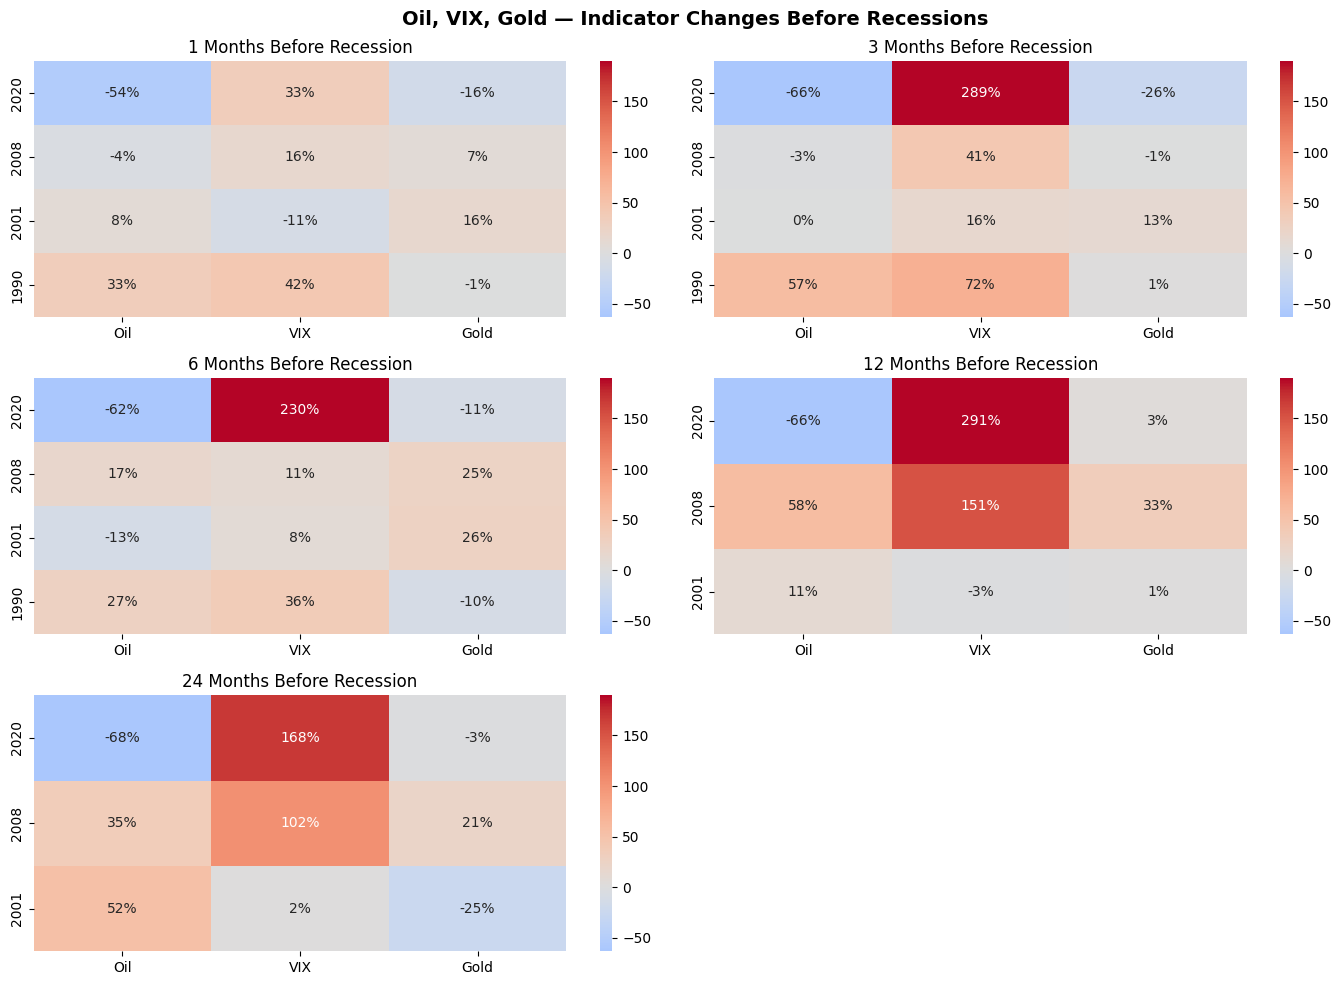
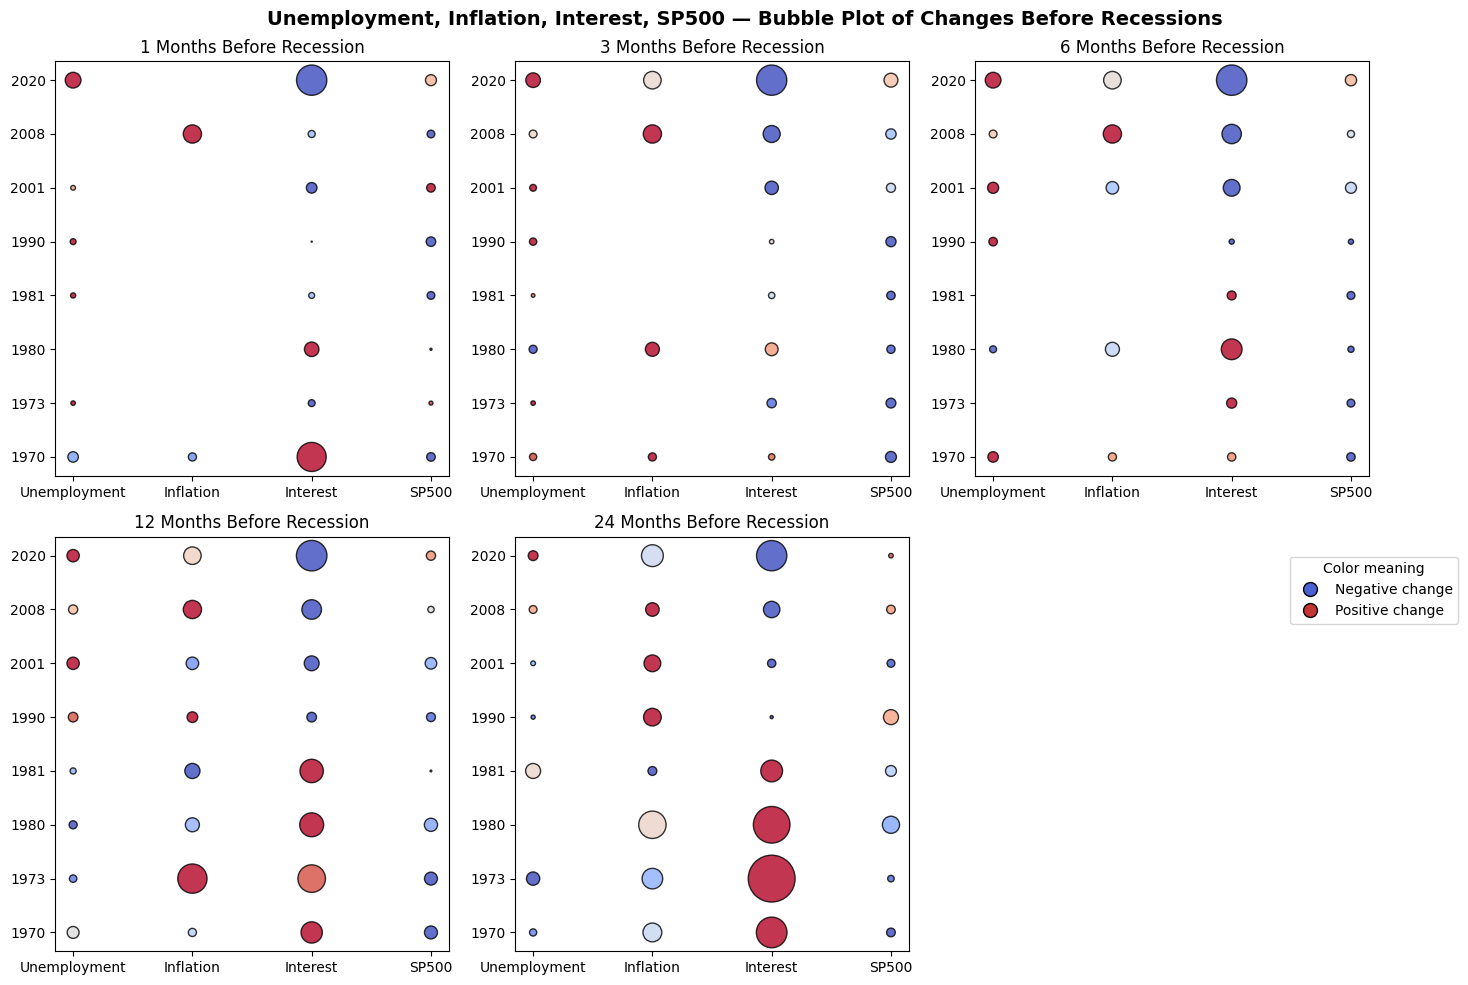
eda edit

diff --git a/public/images/EDA/economic_chart_1968.html b/public/images/EDA/economic_chart_1968.html
@@ -2,6 +2,6 @@
 <head><meta charset="utf-8" /></head>
 <body>
     <div>                        <script type="text/javascript">window.PlotlyConfig = {MathJaxConfig: 'local'};</script>
-        <script charset="utf-8" src="https://cdn.plot.ly/plotly-2.35.2.min.js"></script>                <div id="a3943499-c679-4418-96e1-02f1635c8d95" class="plotly-graph-div" style="height:100%; width:100%;"></div>            <script type="text/javascript">                                    window.PLOTLYENV=window.PLOTLYENV || {};                                    if (document.getElementById("a3943499-c679-4418-96e1-02f1635c8d95")) {                    Plotly.newPlot(                        "a3943499-c679-4418-96e1-02f1635c8d95",                        [{"hovertemplate":"\u003cb\u003eUnemployment\u003c\u002fb\u003e\u003cbr\u003eMonth: %{x}\u003cbr\u003eZ-score: %{y:.2f}\u003cextra\u003e\u003c\u002fextra\u003e","line":{"color":"blue"},"mode":"lines","name":"Unemployment","x":[-24,-23,-22,-21,-20,-19,-18,-17,-16,-15,-14,-13,-12,-11,-10,-9,-8,-7,-6,-5,-4,-3,-2,-1,0],"y":[-0.5486365855965694,-0.5773337776928263,-0.6132052678131475,-0.6275538638612761,-0.6634253539815974,-0.5988566717650191,-0.6419024599094046,-0.6634253539815975,-0.649076757933469,-0.6060309697890833,-0.5558108836206337,-0.6060309697890833,-0.6203795658372119,-0.6562510559575332,-0.6634253539815974,-0.6705996520056616,-0.6705996520056616,-0.6562510559575331,-0.6490767579334689,-0.6705996520056616,-0.6419024599094045,-0.6060309697890832,-0.6419024599094046,-0.5845080757168907,-0.44819641325966947],"type":"scatter"},{"hovertemplate":"\u003cb\u003eInflation\u003c\u002fb\u003e\u003cbr\u003eMonth: %{x}\u003cbr\u003eZ-score: %{y:.2f}\u003cextra\u003e\u003c\u002fextra\u003e","line":{"color":"red"},"mode":"lines","name":"Inflation","x":[-24,-23,-22,-21,-20,-19,-18,-17,-16,-15,-14,-13,-12,-11,-10,-9,-8,-7,-6,-5,-4,-3,-2,-1,0],"y":[0.307393972904044,0.26174304678252946,0.26174304678252946,0.26174304678252946,0.26174304678252946,0.3979142010258987,0.3979142010258987,0.3979142010258987,0.3979142010258987,0.45109578710962184,0.42289642668682703,0.5849918085415744,0.6215540484095738,0.7515289999927037,0.7515289999927037,0.7515289999927037,0.7515289999927037,0.6332721584334988,0.6332721584334988,0.6332721584334988,0.6332721584334988,0.608637550292634,0.5827530845351392,0.6854064650509935,0.7463479858354487],"type":"scatter"},{"hovertemplate":"\u003cb\u003eInterest\u003c\u002fb\u003e\u003cbr\u003eMonth: %{x}\u003cbr\u003eZ-score: %{y:.2f}\u003cextra\u003e\u003c\u002fextra\u003e","line":{"color":"green"},"mode":"lines","name":"Interest","x":[-24,-23,-22,-21,-20,-19,-18,-17,-16,-15,-14,-13,-12,-11,-10,-9,-8,-7,-6,-5,-4,-3,-2,-1,0],"y":[0.1380440256539824,0.17521722284082608,0.31297671829795326,0.3504622952930899,0.4382410214233682,0.39044691075456894,0.5341416225692592,0.6612802045444311,0.47510183880191925,0.4741646993770407,0.4557342906877652,0.36264510781650927,0.4635437858950855,0.6225451083161232,0.6447240747049122,0.8252796038981537,0.9711609743708938,0.7881064067113099,0.8043501567425358,0.889005084789886,1.0145817677235938,0.9589781618474744,1.0205169840811572,0.7315656614103122,0.8633899405098759],"type":"scatter"},{"hovertemplate":"\u003cb\u003eSP500\u003c\u002fb\u003e\u003cbr\u003eMonth: %{x}\u003cbr\u003eZ-score: %{y:.2f}\u003cextra\u003e\u003c\u002fextra\u003e","line":{"color":"orange"},"mode":"lines","name":"SP500","x":[-24,-23,-22,-21,-20,-19,-18,-17,-16,-15,-14,-13,-12,-11,-10,-9,-8,-7,-6,-5,-4,-3,-2,-1,0],"y":[-0.2582498625403811,-0.2598241218967698,-0.24268662181789447,-0.24355833132020083,-0.23741034583657109,-0.2282763283543105,-0.21837028590928984,-0.23562993590146936,-0.21569799379722654,-0.2457757415011604,-0.22339331780199456,-0.19312398183449092,-0.19013682485747857,-0.1848291802730332,-0.2020070231366786,-0.17450410047784637,-0.15484891074906926,-0.17723131478675885,-0.17739264745773298,-0.17901620668360382,-0.16385407802885094,-0.1413450540839689,-0.16440759047340342,-0.20628048774675992,-0.25311365320632656],"type":"scatter"}],                        {"template":{"data":{"barpolar":[{"marker":{"line":{"color":"white","width":0.5},"pattern":{"fillmode":"overlay","size":10,"solidity":0.2}},"type":"barpolar"}],"bar":[{"error_x":{"color":"#2a3f5f"},"error_y":{"color":"#2a3f5f"},"marker":{"line":{"color":"white","width":0.5},"pattern":{"fillmode":"overlay","size":10,"solidity":0.2}},"type":"bar"}],"carpet":[{"aaxis":{"endlinecolor":"#2a3f5f","gridcolor":"#C8D4E3","linecolor":"#C8D4E3","minorgridcolor":"#C8D4E3","startlinecolor":"#2a3f5f"},"baxis":{"endlinecolor":"#2a3f5f","gridcolor":"#C8D4E3","linecolor":"#C8D4E3","minorgridcolor":"#C8D4E3","startlinecolor":"#2a3f5f"},"type":"carpet"}],"choropleth":[{"colorbar":{"outlinewidth":0,"ticks":""},"type":"choropleth"}],"contourcarpet":[{"colorbar":{"outlinewidth":0,"ticks":""},"type":"contourcarpet"}],"contour":[{"colorbar":{"outlinewidth":0,"ticks":""},"colorscale":[[0.0,"#0d0887"],[0.1111111111111111,"#46039f"],[0.2222222222222222,"#7201a8"],[0.3333333333333333,"#9c179e"],[0.4444444444444444,"#bd3786"],[0.5555555555555556,"#d8576b"],[0.6666666666666666,"#ed7953"],[0.7777777777777778,"#fb9f3a"],[0.8888888888888888,"#fdca26"],[1.0,"#f0f921"]],"type":"contour"}],"heatmapgl":[{"colorbar":{"outlinewidth":0,"ticks":""},"colorscale":[[0.0,"#0d0887"],[0.1111111111111111,"#46039f"],[0.2222222222222222,"#7201a8"],[0.3333333333333333,"#9c179e"],[0.4444444444444444,"#bd3786"],[0.5555555555555556,"#d8576b"],[0.6666666666666666,"#ed7953"],[0.7777777777777778,"#fb9f3a"],[0.8888888888888888,"#fdca26"],[1.0,"#f0f921"]],"type":"heatmapgl"}],"heatmap":[{"colorbar":{"outlinewidth":0,"ticks":""},"colorscale":[[0.0,"#0d0887"],[0.1111111111111111,"#46039f"],[0.2222222222222222,"#7201a8"],[0.3333333333333333,"#9c179e"],[0.4444444444444444,"#bd3786"],[0.5555555555555556,"#d8576b"],[0.6666666666666666,"#ed7953"],[0.7777777777777778,"#fb9f3a"],[0.8888888888888888,"#fdca26"],[1.0,"#f0f921"]],"type":"heatmap"}],"histogram2dcontour":[{"colorbar":{"outlinewidth":0,"ticks":""},"colorscale":[[0.0,"#0d0887"],[0.1111111111111111,"#46039f"],[0.2222222222222222,"#7201a8"],[0.3333333333333333,"#9c179e"],[0.4444444444444444,"#bd3786"],[0.5555555555555556,"#d8576b"],[0.6666666666666666,"#ed7953"],[0.7777777777777778,"#fb9f3a"],[0.8888888888888888,"#fdca26"],[1.0,"#f0f921"]],"type":"histogram2dcontour"}],"histogram2d":[{"colorbar":{"outlinewidth":0,"ticks":""},"colorscale":[[0.0,"#0d0887"],[0.1111111111111111,"#46039f"],[0.2222222222222222,"#7201a8"],[0.3333333333333333,"#9c179e"],[0.4444444444444444,"#bd3786"],[0.5555555555555556,"#d8576b"],[0.6666666666666666,"#ed7953"],[0.7777777777777778,"#fb9f3a"],[0.8888888888888888,"#fdca26"],[1.0,"#f0f921"]],"type":"histogram2d"}],"histogram":[{"marker":{"pattern":{"fillmode":"overlay","size":10,"solidity":0.2}},"type":"histogram"}],"mesh3d":[{"colorbar":{"outlinewidth":0,"ticks":""},"type":"mesh3d"}],"parcoords":[{"line":{"colorbar":{"outlinewidth":0,"ticks":""}},"type":"parcoords"}],"pie":[{"automargin":true,"type":"pie"}],"scatter3d":[{"line":{"colorbar":{"outlinewidth":0,"ticks":""}},"marker":{"colorbar":{"outlinewidth":0,"ticks":""}},"type":"scatter3d"}],"scattercarpet":[{"marker":{"colorbar":{"outlinewidth":0,"ticks":""}},"type":"scattercarpet"}],"scattergeo":[{"marker":{"colorbar":{"outlinewidth":0,"ticks":""}},"type":"scattergeo"}],"scattergl":[{"marker":{"colorbar":{"outlinewidth":0,"ticks":""}},"type":"scattergl"}],"scattermapbox":[{"marker":{"colorbar":{"outlinewidth":0,"ticks":""}},"type":"scattermapbox"}],"scatterpolargl":[{"marker":{"colorbar":{"outlinewidth":0,"ticks":""}},"type":"scatterpolargl"}],"scatterpolar":[{"marker":{"colorbar":{"outlinewidth":0,"ticks":""}},"type":"scatterpolar"}],"scatter":[{"fillpattern":{"fillmode":"overlay","size":10,"solidity":0.2},"type":"scatter"}],"scatterternary":[{"marker":{"colorbar":{"outlinewidth":0,"ticks":""}},"type":"scatterternary"}],"surface":[{"colorbar":{"outlinewidth":0,"ticks":""},"colorscale":[[0.0,"#0d0887"],[0.1111111111111111,"#46039f"],[0.2222222222222222,"#7201a8"],[0.3333333333333333,"#9c179e"],[0.4444444444444444,"#bd3786"],[0.5555555555555556,"#d8576b"],[0.6666666666666666,"#ed7953"],[0.7777777777777778,"#fb9f3a"],[0.8888888888888888,"#fdca26"],[1.0,"#f0f921"]],"type":"surface"}],"table":[{"cells":{"fill":{"color":"#EBF0F8"},"line":{"color":"white"}},"header":{"fill":{"color":"#C8D4E3"},"line":{"color":"white"}},"type":"table"}]},"layout":{"annotationdefaults":{"arrowcolor":"#2a3f5f","arrowhead":0,"arrowwidth":1},"autotypenumbers":"strict","coloraxis":{"colorbar":{"outlinewidth":0,"ticks":""}},"colorscale":{"diverging":[[0,"#8e0152"],[0.1,"#c51b7d"],[0.2,"#de77ae"],[0.3,"#f1b6da"],[0.4,"#fde0ef"],[0.5,"#f7f7f7"],[0.6,"#e6f5d0"],[0.7,"#b8e186"],[0.8,"#7fbc41"],[0.9,"#4d9221"],[1,"#276419"]],"sequential":[[0.0,"#0d0887"],[0.1111111111111111,"#46039f"],[0.2222222222222222,"#7201a8"],[0.3333333333333333,"#9c179e"],[0.4444444444444444,"#bd3786"],[0.5555555555555556,"#d8576b"],[0.6666666666666666,"#ed7953"],[0.7777777777777778,"#fb9f3a"],[0.8888888888888888,"#fdca26"],[1.0,"#f0f921"]],"sequentialminus":[[0.0,"#0d0887"],[0.1111111111111111,"#46039f"],[0.2222222222222222,"#7201a8"],[0.3333333333333333,"#9c179e"],[0.4444444444444444,"#bd3786"],[0.5555555555555556,"#d8576b"],[0.6666666666666666,"#ed7953"],[0.7777777777777778,"#fb9f3a"],[0.8888888888888888,"#fdca26"],[1.0,"#f0f921"]]},"colorway":["#636efa","#EF553B","#00cc96","#ab63fa","#FFA15A","#19d3f3","#FF6692","#B6E880","#FF97FF","#FECB52"],"font":{"color":"#2a3f5f"},"geo":{"bgcolor":"white","lakecolor":"white","landcolor":"white","showlakes":true,"showland":true,"subunitcolor":"#C8D4E3"},"hoverlabel":{"align":"left"},"hovermode":"closest","mapbox":{"style":"light"},"paper_bgcolor":"white","plot_bgcolor":"white","polar":{"angularaxis":{"gridcolor":"#EBF0F8","linecolor":"#EBF0F8","ticks":""},"bgcolor":"white","radialaxis":{"gridcolor":"#EBF0F8","linecolor":"#EBF0F8","ticks":""}},"scene":{"xaxis":{"backgroundcolor":"white","gridcolor":"#DFE8F3","gridwidth":2,"linecolor":"#EBF0F8","showbackground":true,"ticks":"","zerolinecolor":"#EBF0F8"},"yaxis":{"backgroundcolor":"white","gridcolor":"#DFE8F3","gridwidth":2,"linecolor":"#EBF0F8","showbackground":true,"ticks":"","zerolinecolor":"#EBF0F8"},"zaxis":{"backgroundcolor":"white","gridcolor":"#DFE8F3","gridwidth":2,"linecolor":"#EBF0F8","showbackground":true,"ticks":"","zerolinecolor":"#EBF0F8"}},"shapedefaults":{"line":{"color":"#2a3f5f"}},"ternary":{"aaxis":{"gridcolor":"#DFE8F3","linecolor":"#A2B1C6","ticks":""},"baxis":{"gridcolor":"#DFE8F3","linecolor":"#A2B1C6","ticks":""},"bgcolor":"white","caxis":{"gridcolor":"#DFE8F3","linecolor":"#A2B1C6","ticks":""}},"title":{"x":0.05},"xaxis":{"automargin":true,"gridcolor":"#EBF0F8","linecolor":"#EBF0F8","ticks":"","title":{"standoff":15},"zerolinecolor":"#EBF0F8","zerolinewidth":2},"yaxis":{"automargin":true,"gridcolor":"#EBF0F8","linecolor":"#EBF0F8","ticks":"","title":{"standoff":15},"zerolinecolor":"#EBF0F8","zerolinewidth":2}}},"shapes":[{"line":{"color":"black","dash":"dash"},"type":"line","x0":0,"x1":0,"xref":"x","y0":0,"y1":1,"yref":"y domain"}],"annotations":[{"showarrow":false,"text":"Recession Start","x":0,"xanchor":"left","xref":"x","y":1,"yanchor":"top","yref":"y domain"}],"title":{"text":"Average Indicator Trajectory Before Recession — Unemployment, Inflation, Interest, SP500 (1968–)"},"xaxis":{"title":{"text":"Months Before Recession"}},"yaxis":{"title":{"text":"Standardized Value (Z-score)"}},"hovermode":"closest","legend":{"title":{"text":"Indicator"}}},                        {"responsive": true}                    )                };                            </script>        </div>
+        <script charset="utf-8" src="https://cdn.plot.ly/plotly-2.35.2.min.js"></script>                <div id="36c79dbf-b446-43fa-ad68-6c90e91bb247" class="plotly-graph-div" style="height:100%; width:100%;"></div>            <script type="text/javascript">                                    window.PLOTLYENV=window.PLOTLYENV || {};                                    if (document.getElementById("36c79dbf-b446-43fa-ad68-6c90e91bb247")) {                    Plotly.newPlot(                        "36c79dbf-b446-43fa-ad68-6c90e91bb247",                        [{"hovertemplate":"\u003cb\u003eUnemployment\u003c\u002fb\u003e\u003cbr\u003eMonth: %{x}\u003cbr\u003eZ-score: %{y:.2f}\u003cextra\u003e\u003c\u002fextra\u003e","line":{"color":"blue"},"mode":"lines","name":"Unemployment","x":[-24,-23,-22,-21,-20,-19,-18,-17,-16,-15,-14,-13,-12,-11,-10,-9,-8,-7,-6,-5,-4,-3,-2,-1,0],"y":[-0.5486365855965694,-0.5773337776928263,-0.6132052678131475,-0.6275538638612761,-0.6634253539815974,-0.5988566717650191,-0.6419024599094046,-0.6634253539815975,-0.649076757933469,-0.6060309697890833,-0.5558108836206337,-0.6060309697890833,-0.6203795658372119,-0.6562510559575332,-0.6634253539815974,-0.6705996520056616,-0.6705996520056616,-0.6562510559575331,-0.6490767579334689,-0.6705996520056616,-0.6419024599094045,-0.6060309697890832,-0.6419024599094046,-0.5845080757168907,-0.44819641325966947],"type":"scatter"},{"hovertemplate":"\u003cb\u003eInflation\u003c\u002fb\u003e\u003cbr\u003eMonth: %{x}\u003cbr\u003eZ-score: %{y:.2f}\u003cextra\u003e\u003c\u002fextra\u003e","line":{"color":"red"},"mode":"lines","name":"Inflation","x":[-24,-23,-22,-21,-20,-19,-18,-17,-16,-15,-14,-13,-12,-11,-10,-9,-8,-7,-6,-5,-4,-3,-2,-1,0],"y":[0.307393972904044,0.26174304678252946,0.26174304678252946,0.26174304678252946,0.26174304678252946,0.3979142010258987,0.3979142010258987,0.3979142010258987,0.3979142010258987,0.45109578710962184,0.42289642668682703,0.5849918085415744,0.6215540484095738,0.7515289999927037,0.7515289999927037,0.7515289999927037,0.7515289999927037,0.6332721584334988,0.6332721584334988,0.6332721584334988,0.6332721584334988,0.608637550292634,0.5827530845351392,0.6854064650509935,0.7463479858354487],"type":"scatter"},{"hovertemplate":"\u003cb\u003eInterest\u003c\u002fb\u003e\u003cbr\u003eMonth: %{x}\u003cbr\u003eZ-score: %{y:.2f}\u003cextra\u003e\u003c\u002fextra\u003e","line":{"color":"green"},"mode":"lines","name":"Interest","x":[-24,-23,-22,-21,-20,-19,-18,-17,-16,-15,-14,-13,-12,-11,-10,-9,-8,-7,-6,-5,-4,-3,-2,-1,0],"y":[0.1380440256539824,0.17521722284082608,0.31297671829795326,0.3504622952930899,0.4382410214233682,0.39044691075456894,0.5341416225692592,0.6612802045444311,0.47510183880191925,0.4741646993770407,0.4557342906877652,0.36264510781650927,0.4635437858950855,0.6225451083161232,0.6447240747049122,0.8252796038981537,0.9711609743708938,0.7881064067113099,0.8043501567425358,0.889005084789886,1.0145817677235938,0.9589781618474744,1.0205169840811572,0.7315656614103122,0.8633899405098759],"type":"scatter"},{"hovertemplate":"\u003cb\u003eSP500\u003c\u002fb\u003e\u003cbr\u003eMonth: %{x}\u003cbr\u003eZ-score: %{y:.2f}\u003cextra\u003e\u003c\u002fextra\u003e","line":{"color":"orange"},"mode":"lines","name":"SP500","x":[-24,-23,-22,-21,-20,-19,-18,-17,-16,-15,-14,-13,-12,-11,-10,-9,-8,-7,-6,-5,-4,-3,-2,-1,0],"y":[-0.2582498625403811,-0.2598241218967698,-0.24268662181789447,-0.24355833132020083,-0.23741034583657109,-0.2282763283543105,-0.21837028590928984,-0.23562993590146936,-0.21569799379722654,-0.2457757415011604,-0.22339331780199456,-0.19312398183449092,-0.19013682485747857,-0.1848291802730332,-0.2020070231366786,-0.17450410047784637,-0.15484891074906926,-0.17723131478675885,-0.17739264745773298,-0.17901620668360382,-0.16385407802885094,-0.1413450540839689,-0.16440759047340342,-0.20628048774675992,-0.25311365320632656],"type":"scatter"}],                        {"template":{"data":{"barpolar":[{"marker":{"line":{"color":"white","width":0.5},"pattern":{"fillmode":"overlay","size":10,"solidity":0.2}},"type":"barpolar"}],"bar":[{"error_x":{"color":"#2a3f5f"},"error_y":{"color":"#2a3f5f"},"marker":{"line":{"color":"white","width":0.5},"pattern":{"fillmode":"overlay","size":10,"solidity":0.2}},"type":"bar"}],"carpet":[{"aaxis":{"endlinecolor":"#2a3f5f","gridcolor":"#C8D4E3","linecolor":"#C8D4E3","minorgridcolor":"#C8D4E3","startlinecolor":"#2a3f5f"},"baxis":{"endlinecolor":"#2a3f5f","gridcolor":"#C8D4E3","linecolor":"#C8D4E3","minorgridcolor":"#C8D4E3","startlinecolor":"#2a3f5f"},"type":"carpet"}],"choropleth":[{"colorbar":{"outlinewidth":0,"ticks":""},"type":"choropleth"}],"contourcarpet":[{"colorbar":{"outlinewidth":0,"ticks":""},"type":"contourcarpet"}],"contour":[{"colorbar":{"outlinewidth":0,"ticks":""},"colorscale":[[0.0,"#0d0887"],[0.1111111111111111,"#46039f"],[0.2222222222222222,"#7201a8"],[0.3333333333333333,"#9c179e"],[0.4444444444444444,"#bd3786"],[0.5555555555555556,"#d8576b"],[0.6666666666666666,"#ed7953"],[0.7777777777777778,"#fb9f3a"],[0.8888888888888888,"#fdca26"],[1.0,"#f0f921"]],"type":"contour"}],"heatmapgl":[{"colorbar":{"outlinewidth":0,"ticks":""},"colorscale":[[0.0,"#0d0887"],[0.1111111111111111,"#46039f"],[0.2222222222222222,"#7201a8"],[0.3333333333333333,"#9c179e"],[0.4444444444444444,"#bd3786"],[0.5555555555555556,"#d8576b"],[0.6666666666666666,"#ed7953"],[0.7777777777777778,"#fb9f3a"],[0.8888888888888888,"#fdca26"],[1.0,"#f0f921"]],"type":"heatmapgl"}],"heatmap":[{"colorbar":{"outlinewidth":0,"ticks":""},"colorscale":[[0.0,"#0d0887"],[0.1111111111111111,"#46039f"],[0.2222222222222222,"#7201a8"],[0.3333333333333333,"#9c179e"],[0.4444444444444444,"#bd3786"],[0.5555555555555556,"#d8576b"],[0.6666666666666666,"#ed7953"],[0.7777777777777778,"#fb9f3a"],[0.8888888888888888,"#fdca26"],[1.0,"#f0f921"]],"type":"heatmap"}],"histogram2dcontour":[{"colorbar":{"outlinewidth":0,"ticks":""},"colorscale":[[0.0,"#0d0887"],[0.1111111111111111,"#46039f"],[0.2222222222222222,"#7201a8"],[0.3333333333333333,"#9c179e"],[0.4444444444444444,"#bd3786"],[0.5555555555555556,"#d8576b"],[0.6666666666666666,"#ed7953"],[0.7777777777777778,"#fb9f3a"],[0.8888888888888888,"#fdca26"],[1.0,"#f0f921"]],"type":"histogram2dcontour"}],"histogram2d":[{"colorbar":{"outlinewidth":0,"ticks":""},"colorscale":[[0.0,"#0d0887"],[0.1111111111111111,"#46039f"],[0.2222222222222222,"#7201a8"],[0.3333333333333333,"#9c179e"],[0.4444444444444444,"#bd3786"],[0.5555555555555556,"#d8576b"],[0.6666666666666666,"#ed7953"],[0.7777777777777778,"#fb9f3a"],[0.8888888888888888,"#fdca26"],[1.0,"#f0f921"]],"type":"histogram2d"}],"histogram":[{"marker":{"pattern":{"fillmode":"overlay","size":10,"solidity":0.2}},"type":"histogram"}],"mesh3d":[{"colorbar":{"outlinewidth":0,"ticks":""},"type":"mesh3d"}],"parcoords":[{"line":{"colorbar":{"outlinewidth":0,"ticks":""}},"type":"parcoords"}],"pie":[{"automargin":true,"type":"pie"}],"scatter3d":[{"line":{"colorbar":{"outlinewidth":0,"ticks":""}},"marker":{"colorbar":{"outlinewidth":0,"ticks":""}},"type":"scatter3d"}],"scattercarpet":[{"marker":{"colorbar":{"outlinewidth":0,"ticks":""}},"type":"scattercarpet"}],"scattergeo":[{"marker":{"colorbar":{"outlinewidth":0,"ticks":""}},"type":"scattergeo"}],"scattergl":[{"marker":{"colorbar":{"outlinewidth":0,"ticks":""}},"type":"scattergl"}],"scattermapbox":[{"marker":{"colorbar":{"outlinewidth":0,"ticks":""}},"type":"scattermapbox"}],"scatterpolargl":[{"marker":{"colorbar":{"outlinewidth":0,"ticks":""}},"type":"scatterpolargl"}],"scatterpolar":[{"marker":{"colorbar":{"outlinewidth":0,"ticks":""}},"type":"scatterpolar"}],"scatter":[{"fillpattern":{"fillmode":"overlay","size":10,"solidity":0.2},"type":"scatter"}],"scatterternary":[{"marker":{"colorbar":{"outlinewidth":0,"ticks":""}},"type":"scatterternary"}],"surface":[{"colorbar":{"outlinewidth":0,"ticks":""},"colorscale":[[0.0,"#0d0887"],[0.1111111111111111,"#46039f"],[0.2222222222222222,"#7201a8"],[0.3333333333333333,"#9c179e"],[0.4444444444444444,"#bd3786"],[0.5555555555555556,"#d8576b"],[0.6666666666666666,"#ed7953"],[0.7777777777777778,"#fb9f3a"],[0.8888888888888888,"#fdca26"],[1.0,"#f0f921"]],"type":"surface"}],"table":[{"cells":{"fill":{"color":"#EBF0F8"},"line":{"color":"white"}},"header":{"fill":{"color":"#C8D4E3"},"line":{"color":"white"}},"type":"table"}]},"layout":{"annotationdefaults":{"arrowcolor":"#2a3f5f","arrowhead":0,"arrowwidth":1},"autotypenumbers":"strict","coloraxis":{"colorbar":{"outlinewidth":0,"ticks":""}},"colorscale":{"diverging":[[0,"#8e0152"],[0.1,"#c51b7d"],[0.2,"#de77ae"],[0.3,"#f1b6da"],[0.4,"#fde0ef"],[0.5,"#f7f7f7"],[0.6,"#e6f5d0"],[0.7,"#b8e186"],[0.8,"#7fbc41"],[0.9,"#4d9221"],[1,"#276419"]],"sequential":[[0.0,"#0d0887"],[0.1111111111111111,"#46039f"],[0.2222222222222222,"#7201a8"],[0.3333333333333333,"#9c179e"],[0.4444444444444444,"#bd3786"],[0.5555555555555556,"#d8576b"],[0.6666666666666666,"#ed7953"],[0.7777777777777778,"#fb9f3a"],[0.8888888888888888,"#fdca26"],[1.0,"#f0f921"]],"sequentialminus":[[0.0,"#0d0887"],[0.1111111111111111,"#46039f"],[0.2222222222222222,"#7201a8"],[0.3333333333333333,"#9c179e"],[0.4444444444444444,"#bd3786"],[0.5555555555555556,"#d8576b"],[0.6666666666666666,"#ed7953"],[0.7777777777777778,"#fb9f3a"],[0.8888888888888888,"#fdca26"],[1.0,"#f0f921"]]},"colorway":["#636efa","#EF553B","#00cc96","#ab63fa","#FFA15A","#19d3f3","#FF6692","#B6E880","#FF97FF","#FECB52"],"font":{"color":"#2a3f5f"},"geo":{"bgcolor":"white","lakecolor":"white","landcolor":"white","showlakes":true,"showland":true,"subunitcolor":"#C8D4E3"},"hoverlabel":{"align":"left"},"hovermode":"closest","mapbox":{"style":"light"},"paper_bgcolor":"white","plot_bgcolor":"white","polar":{"angularaxis":{"gridcolor":"#EBF0F8","linecolor":"#EBF0F8","ticks":""},"bgcolor":"white","radialaxis":{"gridcolor":"#EBF0F8","linecolor":"#EBF0F8","ticks":""}},"scene":{"xaxis":{"backgroundcolor":"white","gridcolor":"#DFE8F3","gridwidth":2,"linecolor":"#EBF0F8","showbackground":true,"ticks":"","zerolinecolor":"#EBF0F8"},"yaxis":{"backgroundcolor":"white","gridcolor":"#DFE8F3","gridwidth":2,"linecolor":"#EBF0F8","showbackground":true,"ticks":"","zerolinecolor":"#EBF0F8"},"zaxis":{"backgroundcolor":"white","gridcolor":"#DFE8F3","gridwidth":2,"linecolor":"#EBF0F8","showbackground":true,"ticks":"","zerolinecolor":"#EBF0F8"}},"shapedefaults":{"line":{"color":"#2a3f5f"}},"ternary":{"aaxis":{"gridcolor":"#DFE8F3","linecolor":"#A2B1C6","ticks":""},"baxis":{"gridcolor":"#DFE8F3","linecolor":"#A2B1C6","ticks":""},"bgcolor":"white","caxis":{"gridcolor":"#DFE8F3","linecolor":"#A2B1C6","ticks":""}},"title":{"x":0.05},"xaxis":{"automargin":true,"gridcolor":"#EBF0F8","linecolor":"#EBF0F8","ticks":"","title":{"standoff":15},"zerolinecolor":"#EBF0F8","zerolinewidth":2},"yaxis":{"automargin":true,"gridcolor":"#EBF0F8","linecolor":"#EBF0F8","ticks":"","title":{"standoff":15},"zerolinecolor":"#EBF0F8","zerolinewidth":2}}},"shapes":[{"line":{"color":"black","dash":"dash"},"type":"line","x0":0,"x1":0,"xref":"x","y0":0,"y1":1,"yref":"y domain"}],"annotations":[{"showarrow":false,"text":"Recession Start","x":0,"xanchor":"left","xref":"x","y":1,"yanchor":"top","yref":"y domain"}],"title":{"text":"Average Indicator Trajectory Before Recession — Unemployment, Inflation, Interest, SP500 (1968–2026)"},"xaxis":{"title":{"text":"Months Before Recession"}},"yaxis":{"title":{"text":"Standardized Value (Z-score)"}},"hovermode":"closest","legend":{"title":{"text":"Indicator"}}},                        {"responsive": true}                    )                };                            </script>        </div>
 </body>
 </html>

diff --git a/public/images/EDA/economic_chart_1990.html b/public/images/EDA/economic_chart_1990.html
@@ -2,6 +2,6 @@
 <head><meta charset="utf-8" /></head>
 <body>
     <div>                        <script type="text/javascript">window.PlotlyConfig = {MathJaxConfig: 'local'};</script>
-        <script charset="utf-8" src="https://cdn.plot.ly/plotly-2.35.2.min.js"></script>                <div id="4ca7a600-8cdd-47d7-99e2-bf52857e6704" class="plotly-graph-div" style="height:100%; width:100%;"></div>            <script type="text/javascript">                                    window.PLOTLYENV=window.PLOTLYENV || {};                                    if (document.getElementById("4ca7a600-8cdd-47d7-99e2-bf52857e6704")) {                    Plotly.newPlot(                        "4ca7a600-8cdd-47d7-99e2-bf52857e6704",                        [{"hovertemplate":"\u003cb\u003eOil\u003c\u002fb\u003e\u003cbr\u003eMonth: %{x}\u003cbr\u003eNormalized: %{y:.2f}\u003cextra\u003e\u003c\u002fextra\u003e","line":{"color":"black"},"mode":"lines","name":"Oil","x":[-24,-23,-22,-21,-20,-19,-18,-17,-16,-15,-14,-13,-12,-11,-10,-9,-8,-7,-6,-5,-4,-3,-2,-1,0],"y":[0.304093112476346,0.29206522020893283,0.3070482411799777,0.343054151437385,0.33527749695414366,0.34790159939860543,0.35098633901029114,0.3277859864686212,0.2730383389066024,0.2525079710708453,0.2936205511055811,0.2872436944293232,0.2850403089924048,0.312440054955025,0.3052596106488322,0.3042486455660109,0.3150322731161055,0.3170282811001374,0.3392695129222076,0.33050781553775566,0.34313191798221737,0.3883402027114602,0.34585374705135186,0.34486870415014126,0.27620084506312054],"type":"scatter"},{"hovertemplate":"\u003cb\u003eVIX\u003c\u002fb\u003e\u003cbr\u003eMonth: %{x}\u003cbr\u003eNormalized: %{y:.2f}\u003cextra\u003e\u003c\u002fextra\u003e","line":{"color":"purple"},"mode":"lines","name":"VIX","x":[-24,-23,-22,-21,-20,-19,-18,-17,-16,-15,-14,-13,-12,-11,-10,-9,-8,-7,-6,-5,-4,-3,-2,-1,0],"y":[0.19491860937901917,0.16626968095397518,0.1282254891972625,0.15740372769931257,0.1666666729765405,0.1509858351282716,0.1372237668162397,0.19313219575646598,0.17308454661796002,0.21794363558802665,0.1476776503019205,0.14503109991689012,0.144237134801381,0.15654359724670927,0.16117506988532324,0.14231837788489166,0.11565436540355739,0.18029640430451013,0.23064707743617255,0.2495699284638245,0.1914781001883535,0.1707026638911803,0.2747783603179505,0.414979491584944,0.5074103600077066],"type":"scatter"},{"hovertemplate":"\u003cb\u003eGold\u003c\u002fb\u003e\u003cbr\u003eMonth: %{x}\u003cbr\u003eNormalized: %{y:.2f}\u003cextra\u003e\u003c\u002fextra\u003e","line":{"color":"gold"},"mode":"lines","name":"Gold","x":[-24,-23,-22,-21,-20,-19,-18,-17,-16,-15,-14,-13,-12,-11,-10,-9,-8,-7,-6,-5,-4,-3,-2,-1,0],"y":[0.13842908022311404,0.11235639785184988,0.12525205139111306,0.13361469371908674,0.12163345845212524,0.12384526138793356,0.11330208203316479,0.11444314609579594,0.10100820854584917,0.10655725297908257,0.12014849920431736,0.11175459394872735,0.10894099605398706,0.10588511196091854,0.10412660954995978,0.10975380832083718,0.11577178474272833,0.11976553579450926,0.1167096546828376,0.11868699758711078,0.1438608842056908,0.16590075028193954,0.15311450804514293,0.14336069823360734,0.14752637451750003],"type":"scatter"}],                        {"template":{"data":{"barpolar":[{"marker":{"line":{"color":"white","width":0.5},"pattern":{"fillmode":"overlay","size":10,"solidity":0.2}},"type":"barpolar"}],"bar":[{"error_x":{"color":"#2a3f5f"},"error_y":{"color":"#2a3f5f"},"marker":{"line":{"color":"white","width":0.5},"pattern":{"fillmode":"overlay","size":10,"solidity":0.2}},"type":"bar"}],"carpet":[{"aaxis":{"endlinecolor":"#2a3f5f","gridcolor":"#C8D4E3","linecolor":"#C8D4E3","minorgridcolor":"#C8D4E3","startlinecolor":"#2a3f5f"},"baxis":{"endlinecolor":"#2a3f5f","gridcolor":"#C8D4E3","linecolor":"#C8D4E3","minorgridcolor":"#C8D4E3","startlinecolor":"#2a3f5f"},"type":"carpet"}],"choropleth":[{"colorbar":{"outlinewidth":0,"ticks":""},"type":"choropleth"}],"contourcarpet":[{"colorbar":{"outlinewidth":0,"ticks":""},"type":"contourcarpet"}],"contour":[{"colorbar":{"outlinewidth":0,"ticks":""},"colorscale":[[0.0,"#0d0887"],[0.1111111111111111,"#46039f"],[0.2222222222222222,"#7201a8"],[0.3333333333333333,"#9c179e"],[0.4444444444444444,"#bd3786"],[0.5555555555555556,"#d8576b"],[0.6666666666666666,"#ed7953"],[0.7777777777777778,"#fb9f3a"],[0.8888888888888888,"#fdca26"],[1.0,"#f0f921"]],"type":"contour"}],"heatmapgl":[{"colorbar":{"outlinewidth":0,"ticks":""},"colorscale":[[0.0,"#0d0887"],[0.1111111111111111,"#46039f"],[0.2222222222222222,"#7201a8"],[0.3333333333333333,"#9c179e"],[0.4444444444444444,"#bd3786"],[0.5555555555555556,"#d8576b"],[0.6666666666666666,"#ed7953"],[0.7777777777777778,"#fb9f3a"],[0.8888888888888888,"#fdca26"],[1.0,"#f0f921"]],"type":"heatmapgl"}],"heatmap":[{"colorbar":{"outlinewidth":0,"ticks":""},"colorscale":[[0.0,"#0d0887"],[0.1111111111111111,"#46039f"],[0.2222222222222222,"#7201a8"],[0.3333333333333333,"#9c179e"],[0.4444444444444444,"#bd3786"],[0.5555555555555556,"#d8576b"],[0.6666666666666666,"#ed7953"],[0.7777777777777778,"#fb9f3a"],[0.8888888888888888,"#fdca26"],[1.0,"#f0f921"]],"type":"heatmap"}],"histogram2dcontour":[{"colorbar":{"outlinewidth":0,"ticks":""},"colorscale":[[0.0,"#0d0887"],[0.1111111111111111,"#46039f"],[0.2222222222222222,"#7201a8"],[0.3333333333333333,"#9c179e"],[0.4444444444444444,"#bd3786"],[0.5555555555555556,"#d8576b"],[0.6666666666666666,"#ed7953"],[0.7777777777777778,"#fb9f3a"],[0.8888888888888888,"#fdca26"],[1.0,"#f0f921"]],"type":"histogram2dcontour"}],"histogram2d":[{"colorbar":{"outlinewidth":0,"ticks":""},"colorscale":[[0.0,"#0d0887"],[0.1111111111111111,"#46039f"],[0.2222222222222222,"#7201a8"],[0.3333333333333333,"#9c179e"],[0.4444444444444444,"#bd3786"],[0.5555555555555556,"#d8576b"],[0.6666666666666666,"#ed7953"],[0.7777777777777778,"#fb9f3a"],[0.8888888888888888,"#fdca26"],[1.0,"#f0f921"]],"type":"histogram2d"}],"histogram":[{"marker":{"pattern":{"fillmode":"overlay","size":10,"solidity":0.2}},"type":"histogram"}],"mesh3d":[{"colorbar":{"outlinewidth":0,"ticks":""},"type":"mesh3d"}],"parcoords":[{"line":{"colorbar":{"outlinewidth":0,"ticks":""}},"type":"parcoords"}],"pie":[{"automargin":true,"type":"pie"}],"scatter3d":[{"line":{"colorbar":{"outlinewidth":0,"ticks":""}},"marker":{"colorbar":{"outlinewidth":0,"ticks":""}},"type":"scatter3d"}],"scattercarpet":[{"marker":{"colorbar":{"outlinewidth":0,"ticks":""}},"type":"scattercarpet"}],"scattergeo":[{"marker":{"colorbar":{"outlinewidth":0,"ticks":""}},"type":"scattergeo"}],"scattergl":[{"marker":{"colorbar":{"outlinewidth":0,"ticks":""}},"type":"scattergl"}],"scattermapbox":[{"marker":{"colorbar":{"outlinewidth":0,"ticks":""}},"type":"scattermapbox"}],"scatterpolargl":[{"marker":{"colorbar":{"outlinewidth":0,"ticks":""}},"type":"scatterpolargl"}],"scatterpolar":[{"marker":{"colorbar":{"outlinewidth":0,"ticks":""}},"type":"scatterpolar"}],"scatter":[{"fillpattern":{"fillmode":"overlay","size":10,"solidity":0.2},"type":"scatter"}],"scatterternary":[{"marker":{"colorbar":{"outlinewidth":0,"ticks":""}},"type":"scatterternary"}],"surface":[{"colorbar":{"outlinewidth":0,"ticks":""},"colorscale":[[0.0,"#0d0887"],[0.1111111111111111,"#46039f"],[0.2222222222222222,"#7201a8"],[0.3333333333333333,"#9c179e"],[0.4444444444444444,"#bd3786"],[0.5555555555555556,"#d8576b"],[0.6666666666666666,"#ed7953"],[0.7777777777777778,"#fb9f3a"],[0.8888888888888888,"#fdca26"],[1.0,"#f0f921"]],"type":"surface"}],"table":[{"cells":{"fill":{"color":"#EBF0F8"},"line":{"color":"white"}},"header":{"fill":{"color":"#C8D4E3"},"line":{"color":"white"}},"type":"table"}]},"layout":{"annotationdefaults":{"arrowcolor":"#2a3f5f","arrowhead":0,"arrowwidth":1},"autotypenumbers":"strict","coloraxis":{"colorbar":{"outlinewidth":0,"ticks":""}},"colorscale":{"diverging":[[0,"#8e0152"],[0.1,"#c51b7d"],[0.2,"#de77ae"],[0.3,"#f1b6da"],[0.4,"#fde0ef"],[0.5,"#f7f7f7"],[0.6,"#e6f5d0"],[0.7,"#b8e186"],[0.8,"#7fbc41"],[0.9,"#4d9221"],[1,"#276419"]],"sequential":[[0.0,"#0d0887"],[0.1111111111111111,"#46039f"],[0.2222222222222222,"#7201a8"],[0.3333333333333333,"#9c179e"],[0.4444444444444444,"#bd3786"],[0.5555555555555556,"#d8576b"],[0.6666666666666666,"#ed7953"],[0.7777777777777778,"#fb9f3a"],[0.8888888888888888,"#fdca26"],[1.0,"#f0f921"]],"sequentialminus":[[0.0,"#0d0887"],[0.1111111111111111,"#46039f"],[0.2222222222222222,"#7201a8"],[0.3333333333333333,"#9c179e"],[0.4444444444444444,"#bd3786"],[0.5555555555555556,"#d8576b"],[0.6666666666666666,"#ed7953"],[0.7777777777777778,"#fb9f3a"],[0.8888888888888888,"#fdca26"],[1.0,"#f0f921"]]},"colorway":["#636efa","#EF553B","#00cc96","#ab63fa","#FFA15A","#19d3f3","#FF6692","#B6E880","#FF97FF","#FECB52"],"font":{"color":"#2a3f5f"},"geo":{"bgcolor":"white","lakecolor":"white","landcolor":"white","showlakes":true,"showland":true,"subunitcolor":"#C8D4E3"},"hoverlabel":{"align":"left"},"hovermode":"closest","mapbox":{"style":"light"},"paper_bgcolor":"white","plot_bgcolor":"white","polar":{"angularaxis":{"gridcolor":"#EBF0F8","linecolor":"#EBF0F8","ticks":""},"bgcolor":"white","radialaxis":{"gridcolor":"#EBF0F8","linecolor":"#EBF0F8","ticks":""}},"scene":{"xaxis":{"backgroundcolor":"white","gridcolor":"#DFE8F3","gridwidth":2,"linecolor":"#EBF0F8","showbackground":true,"ticks":"","zerolinecolor":"#EBF0F8"},"yaxis":{"backgroundcolor":"white","gridcolor":"#DFE8F3","gridwidth":2,"linecolor":"#EBF0F8","showbackground":true,"ticks":"","zerolinecolor":"#EBF0F8"},"zaxis":{"backgroundcolor":"white","gridcolor":"#DFE8F3","gridwidth":2,"linecolor":"#EBF0F8","showbackground":true,"ticks":"","zerolinecolor":"#EBF0F8"}},"shapedefaults":{"line":{"color":"#2a3f5f"}},"ternary":{"aaxis":{"gridcolor":"#DFE8F3","linecolor":"#A2B1C6","ticks":""},"baxis":{"gridcolor":"#DFE8F3","linecolor":"#A2B1C6","ticks":""},"bgcolor":"white","caxis":{"gridcolor":"#DFE8F3","linecolor":"#A2B1C6","ticks":""}},"title":{"x":0.05},"xaxis":{"automargin":true,"gridcolor":"#EBF0F8","linecolor":"#EBF0F8","ticks":"","title":{"standoff":15},"zerolinecolor":"#EBF0F8","zerolinewidth":2},"yaxis":{"automargin":true,"gridcolor":"#EBF0F8","linecolor":"#EBF0F8","ticks":"","title":{"standoff":15},"zerolinecolor":"#EBF0F8","zerolinewidth":2}}},"shapes":[{"line":{"color":"black","dash":"dash"},"type":"line","x0":0,"x1":0,"xref":"x","y0":0,"y1":1,"yref":"y domain"}],"annotations":[{"showarrow":false,"text":"Recession Start","x":0,"xanchor":"left","xref":"x","y":1,"yanchor":"top","yref":"y domain"}],"title":{"text":"Average Indicator Trajectory Before Recession (Normalized)"},"xaxis":{"title":{"text":"Months Before Recession"}},"yaxis":{"title":{"text":"Normalized Value (0–1)"}},"hovermode":"closest","legend":{"title":{"text":"Indicator"}}},                        {"responsive": true}                    )                };                            </script>        </div>
+        <script charset="utf-8" src="https://cdn.plot.ly/plotly-2.35.2.min.js"></script>                <div id="b284c741-b66d-4732-b926-23a53047d1c8" class="plotly-graph-div" style="height:100%; width:100%;"></div>            <script type="text/javascript">                                    window.PLOTLYENV=window.PLOTLYENV || {};                                    if (document.getElementById("b284c741-b66d-4732-b926-23a53047d1c8")) {                    Plotly.newPlot(                        "b284c741-b66d-4732-b926-23a53047d1c8",                        [{"hovertemplate":"\u003cb\u003eOil\u003c\u002fb\u003e\u003cbr\u003eMonth: %{x}\u003cbr\u003eNormalized: %{y:.2f}\u003cextra\u003e\u003c\u002fextra\u003e","line":{"color":"black"},"mode":"lines","name":"Oil","x":[-24,-23,-22,-21,-20,-19,-18,-17,-16,-15,-14,-13,-12,-11,-10,-9,-8,-7,-6,-5,-4,-3,-2,-1,0],"y":[0.304093112476346,0.29206522020893283,0.3070482411799777,0.343054151437385,0.33527749695414366,0.34790159939860543,0.35098633901029114,0.3277859864686212,0.2730383389066024,0.2525079710708453,0.2936205511055811,0.2872436944293232,0.2850403089924048,0.312440054955025,0.3052596106488322,0.3042486455660109,0.3150322731161055,0.3170282811001374,0.3392695129222076,0.33050781553775566,0.34313191798221737,0.3883402027114602,0.34585374705135186,0.34486870415014126,0.27620084506312054],"type":"scatter"},{"hovertemplate":"\u003cb\u003eVIX\u003c\u002fb\u003e\u003cbr\u003eMonth: %{x}\u003cbr\u003eNormalized: %{y:.2f}\u003cextra\u003e\u003c\u002fextra\u003e","line":{"color":"purple"},"mode":"lines","name":"VIX","x":[-24,-23,-22,-21,-20,-19,-18,-17,-16,-15,-14,-13,-12,-11,-10,-9,-8,-7,-6,-5,-4,-3,-2,-1,0],"y":[0.19491860937901917,0.16626968095397518,0.1282254891972625,0.15740372769931257,0.1666666729765405,0.1509858351282716,0.1372237668162397,0.19313219575646598,0.17308454661796002,0.21794363558802665,0.1476776503019205,0.14503109991689012,0.144237134801381,0.15654359724670927,0.16117506988532324,0.14231837788489166,0.11565436540355739,0.18029640430451013,0.23064707743617255,0.2495699284638245,0.1914781001883535,0.1707026638911803,0.2747783603179505,0.414979491584944,0.5074103600077066],"type":"scatter"},{"hovertemplate":"\u003cb\u003eGold\u003c\u002fb\u003e\u003cbr\u003eMonth: %{x}\u003cbr\u003eNormalized: %{y:.2f}\u003cextra\u003e\u003c\u002fextra\u003e","line":{"color":"gold"},"mode":"lines","name":"Gold","x":[-24,-23,-22,-21,-20,-19,-18,-17,-16,-15,-14,-13,-12,-11,-10,-9,-8,-7,-6,-5,-4,-3,-2,-1,0],"y":[0.13842908022311404,0.11235639785184988,0.12525205139111306,0.13361469371908674,0.12163345845212524,0.12384526138793356,0.11330208203316479,0.11444314609579594,0.10100820854584917,0.10655725297908257,0.12014849920431736,0.11175459394872735,0.10894099605398706,0.10588511196091854,0.10412660954995978,0.10975380832083718,0.11577178474272833,0.11976553579450926,0.1167096546828376,0.11868699758711078,0.1438608842056908,0.16590075028193954,0.15311450804514293,0.14336069823360734,0.14752637451750003],"type":"scatter"}],                        {"template":{"data":{"barpolar":[{"marker":{"line":{"color":"white","width":0.5},"pattern":{"fillmode":"overlay","size":10,"solidity":0.2}},"type":"barpolar"}],"bar":[{"error_x":{"color":"#2a3f5f"},"error_y":{"color":"#2a3f5f"},"marker":{"line":{"color":"white","width":0.5},"pattern":{"fillmode":"overlay","size":10,"solidity":0.2}},"type":"bar"}],"carpet":[{"aaxis":{"endlinecolor":"#2a3f5f","gridcolor":"#C8D4E3","linecolor":"#C8D4E3","minorgridcolor":"#C8D4E3","startlinecolor":"#2a3f5f"},"baxis":{"endlinecolor":"#2a3f5f","gridcolor":"#C8D4E3","linecolor":"#C8D4E3","minorgridcolor":"#C8D4E3","startlinecolor":"#2a3f5f"},"type":"carpet"}],"choropleth":[{"colorbar":{"outlinewidth":0,"ticks":""},"type":"choropleth"}],"contourcarpet":[{"colorbar":{"outlinewidth":0,"ticks":""},"type":"contourcarpet"}],"contour":[{"colorbar":{"outlinewidth":0,"ticks":""},"colorscale":[[0.0,"#0d0887"],[0.1111111111111111,"#46039f"],[0.2222222222222222,"#7201a8"],[0.3333333333333333,"#9c179e"],[0.4444444444444444,"#bd3786"],[0.5555555555555556,"#d8576b"],[0.6666666666666666,"#ed7953"],[0.7777777777777778,"#fb9f3a"],[0.8888888888888888,"#fdca26"],[1.0,"#f0f921"]],"type":"contour"}],"heatmapgl":[{"colorbar":{"outlinewidth":0,"ticks":""},"colorscale":[[0.0,"#0d0887"],[0.1111111111111111,"#46039f"],[0.2222222222222222,"#7201a8"],[0.3333333333333333,"#9c179e"],[0.4444444444444444,"#bd3786"],[0.5555555555555556,"#d8576b"],[0.6666666666666666,"#ed7953"],[0.7777777777777778,"#fb9f3a"],[0.8888888888888888,"#fdca26"],[1.0,"#f0f921"]],"type":"heatmapgl"}],"heatmap":[{"colorbar":{"outlinewidth":0,"ticks":""},"colorscale":[[0.0,"#0d0887"],[0.1111111111111111,"#46039f"],[0.2222222222222222,"#7201a8"],[0.3333333333333333,"#9c179e"],[0.4444444444444444,"#bd3786"],[0.5555555555555556,"#d8576b"],[0.6666666666666666,"#ed7953"],[0.7777777777777778,"#fb9f3a"],[0.8888888888888888,"#fdca26"],[1.0,"#f0f921"]],"type":"heatmap"}],"histogram2dcontour":[{"colorbar":{"outlinewidth":0,"ticks":""},"colorscale":[[0.0,"#0d0887"],[0.1111111111111111,"#46039f"],[0.2222222222222222,"#7201a8"],[0.3333333333333333,"#9c179e"],[0.4444444444444444,"#bd3786"],[0.5555555555555556,"#d8576b"],[0.6666666666666666,"#ed7953"],[0.7777777777777778,"#fb9f3a"],[0.8888888888888888,"#fdca26"],[1.0,"#f0f921"]],"type":"histogram2dcontour"}],"histogram2d":[{"colorbar":{"outlinewidth":0,"ticks":""},"colorscale":[[0.0,"#0d0887"],[0.1111111111111111,"#46039f"],[0.2222222222222222,"#7201a8"],[0.3333333333333333,"#9c179e"],[0.4444444444444444,"#bd3786"],[0.5555555555555556,"#d8576b"],[0.6666666666666666,"#ed7953"],[0.7777777777777778,"#fb9f3a"],[0.8888888888888888,"#fdca26"],[1.0,"#f0f921"]],"type":"histogram2d"}],"histogram":[{"marker":{"pattern":{"fillmode":"overlay","size":10,"solidity":0.2}},"type":"histogram"}],"mesh3d":[{"colorbar":{"outlinewidth":0,"ticks":""},"type":"mesh3d"}],"parcoords":[{"line":{"colorbar":{"outlinewidth":0,"ticks":""}},"type":"parcoords"}],"pie":[{"automargin":true,"type":"pie"}],"scatter3d":[{"line":{"colorbar":{"outlinewidth":0,"ticks":""}},"marker":{"colorbar":{"outlinewidth":0,"ticks":""}},"type":"scatter3d"}],"scattercarpet":[{"marker":{"colorbar":{"outlinewidth":0,"ticks":""}},"type":"scattercarpet"}],"scattergeo":[{"marker":{"colorbar":{"outlinewidth":0,"ticks":""}},"type":"scattergeo"}],"scattergl":[{"marker":{"colorbar":{"outlinewidth":0,"ticks":""}},"type":"scattergl"}],"scattermapbox":[{"marker":{"colorbar":{"outlinewidth":0,"ticks":""}},"type":"scattermapbox"}],"scatterpolargl":[{"marker":{"colorbar":{"outlinewidth":0,"ticks":""}},"type":"scatterpolargl"}],"scatterpolar":[{"marker":{"colorbar":{"outlinewidth":0,"ticks":""}},"type":"scatterpolar"}],"scatter":[{"fillpattern":{"fillmode":"overlay","size":10,"solidity":0.2},"type":"scatter"}],"scatterternary":[{"marker":{"colorbar":{"outlinewidth":0,"ticks":""}},"type":"scatterternary"}],"surface":[{"colorbar":{"outlinewidth":0,"ticks":""},"colorscale":[[0.0,"#0d0887"],[0.1111111111111111,"#46039f"],[0.2222222222222222,"#7201a8"],[0.3333333333333333,"#9c179e"],[0.4444444444444444,"#bd3786"],[0.5555555555555556,"#d8576b"],[0.6666666666666666,"#ed7953"],[0.7777777777777778,"#fb9f3a"],[0.8888888888888888,"#fdca26"],[1.0,"#f0f921"]],"type":"surface"}],"table":[{"cells":{"fill":{"color":"#EBF0F8"},"line":{"color":"white"}},"header":{"fill":{"color":"#C8D4E3"},"line":{"color":"white"}},"type":"table"}]},"layout":{"annotationdefaults":{"arrowcolor":"#2a3f5f","arrowhead":0,"arrowwidth":1},"autotypenumbers":"strict","coloraxis":{"colorbar":{"outlinewidth":0,"ticks":""}},"colorscale":{"diverging":[[0,"#8e0152"],[0.1,"#c51b7d"],[0.2,"#de77ae"],[0.3,"#f1b6da"],[0.4,"#fde0ef"],[0.5,"#f7f7f7"],[0.6,"#e6f5d0"],[0.7,"#b8e186"],[0.8,"#7fbc41"],[0.9,"#4d9221"],[1,"#276419"]],"sequential":[[0.0,"#0d0887"],[0.1111111111111111,"#46039f"],[0.2222222222222222,"#7201a8"],[0.3333333333333333,"#9c179e"],[0.4444444444444444,"#bd3786"],[0.5555555555555556,"#d8576b"],[0.6666666666666666,"#ed7953"],[0.7777777777777778,"#fb9f3a"],[0.8888888888888888,"#fdca26"],[1.0,"#f0f921"]],"sequentialminus":[[0.0,"#0d0887"],[0.1111111111111111,"#46039f"],[0.2222222222222222,"#7201a8"],[0.3333333333333333,"#9c179e"],[0.4444444444444444,"#bd3786"],[0.5555555555555556,"#d8576b"],[0.6666666666666666,"#ed7953"],[0.7777777777777778,"#fb9f3a"],[0.8888888888888888,"#fdca26"],[1.0,"#f0f921"]]},"colorway":["#636efa","#EF553B","#00cc96","#ab63fa","#FFA15A","#19d3f3","#FF6692","#B6E880","#FF97FF","#FECB52"],"font":{"color":"#2a3f5f"},"geo":{"bgcolor":"white","lakecolor":"white","landcolor":"white","showlakes":true,"showland":true,"subunitcolor":"#C8D4E3"},"hoverlabel":{"align":"left"},"hovermode":"closest","mapbox":{"style":"light"},"paper_bgcolor":"white","plot_bgcolor":"white","polar":{"angularaxis":{"gridcolor":"#EBF0F8","linecolor":"#EBF0F8","ticks":""},"bgcolor":"white","radialaxis":{"gridcolor":"#EBF0F8","linecolor":"#EBF0F8","ticks":""}},"scene":{"xaxis":{"backgroundcolor":"white","gridcolor":"#DFE8F3","gridwidth":2,"linecolor":"#EBF0F8","showbackground":true,"ticks":"","zerolinecolor":"#EBF0F8"},"yaxis":{"backgroundcolor":"white","gridcolor":"#DFE8F3","gridwidth":2,"linecolor":"#EBF0F8","showbackground":true,"ticks":"","zerolinecolor":"#EBF0F8"},"zaxis":{"backgroundcolor":"white","gridcolor":"#DFE8F3","gridwidth":2,"linecolor":"#EBF0F8","showbackground":true,"ticks":"","zerolinecolor":"#EBF0F8"}},"shapedefaults":{"line":{"color":"#2a3f5f"}},"ternary":{"aaxis":{"gridcolor":"#DFE8F3","linecolor":"#A2B1C6","ticks":""},"baxis":{"gridcolor":"#DFE8F3","linecolor":"#A2B1C6","ticks":""},"bgcolor":"white","caxis":{"gridcolor":"#DFE8F3","linecolor":"#A2B1C6","ticks":""}},"title":{"x":0.05},"xaxis":{"automargin":true,"gridcolor":"#EBF0F8","linecolor":"#EBF0F8","ticks":"","title":{"standoff":15},"zerolinecolor":"#EBF0F8","zerolinewidth":2},"yaxis":{"automargin":true,"gridcolor":"#EBF0F8","linecolor":"#EBF0F8","ticks":"","title":{"standoff":15},"zerolinecolor":"#EBF0F8","zerolinewidth":2}}},"shapes":[{"line":{"color":"black","dash":"dash"},"type":"line","x0":0,"x1":0,"xref":"x","y0":0,"y1":1,"yref":"y domain"}],"annotations":[{"showarrow":false,"text":"Recession Start","x":0,"xanchor":"left","xref":"x","y":1,"yanchor":"top","yref":"y domain"}],"title":{"text":"Average Indicator Trajectory Before Recession — Oil, VIX, Gold (1990–2026)"},"xaxis":{"title":{"text":"Months Before Recession"}},"yaxis":{"title":{"text":"Normalized Value (0–1)"}},"hovermode":"closest","legend":{"title":{"text":"Indicator"}}},                        {"responsive": true}                    )                };                            </script>        </div>
 </body>
 </html>